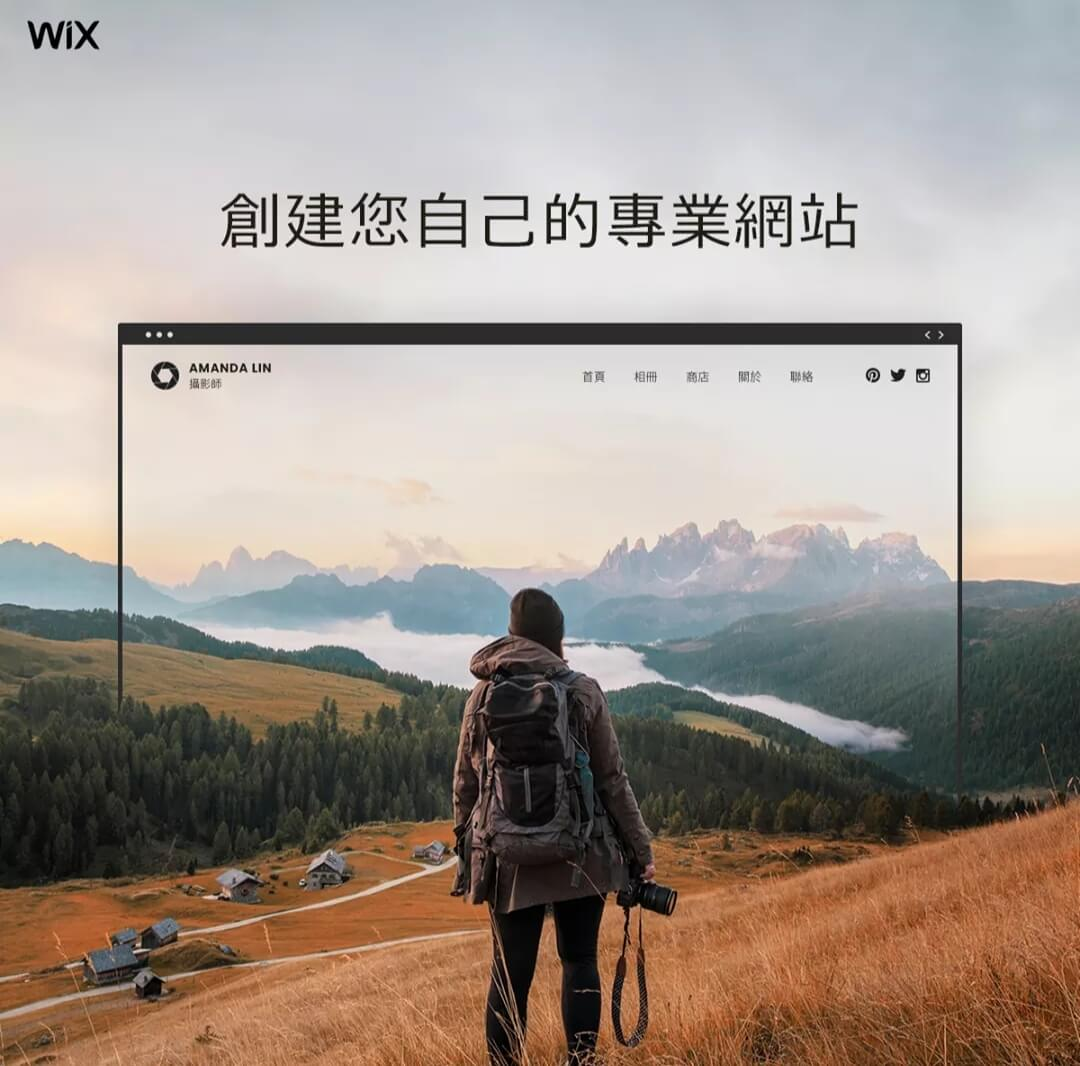
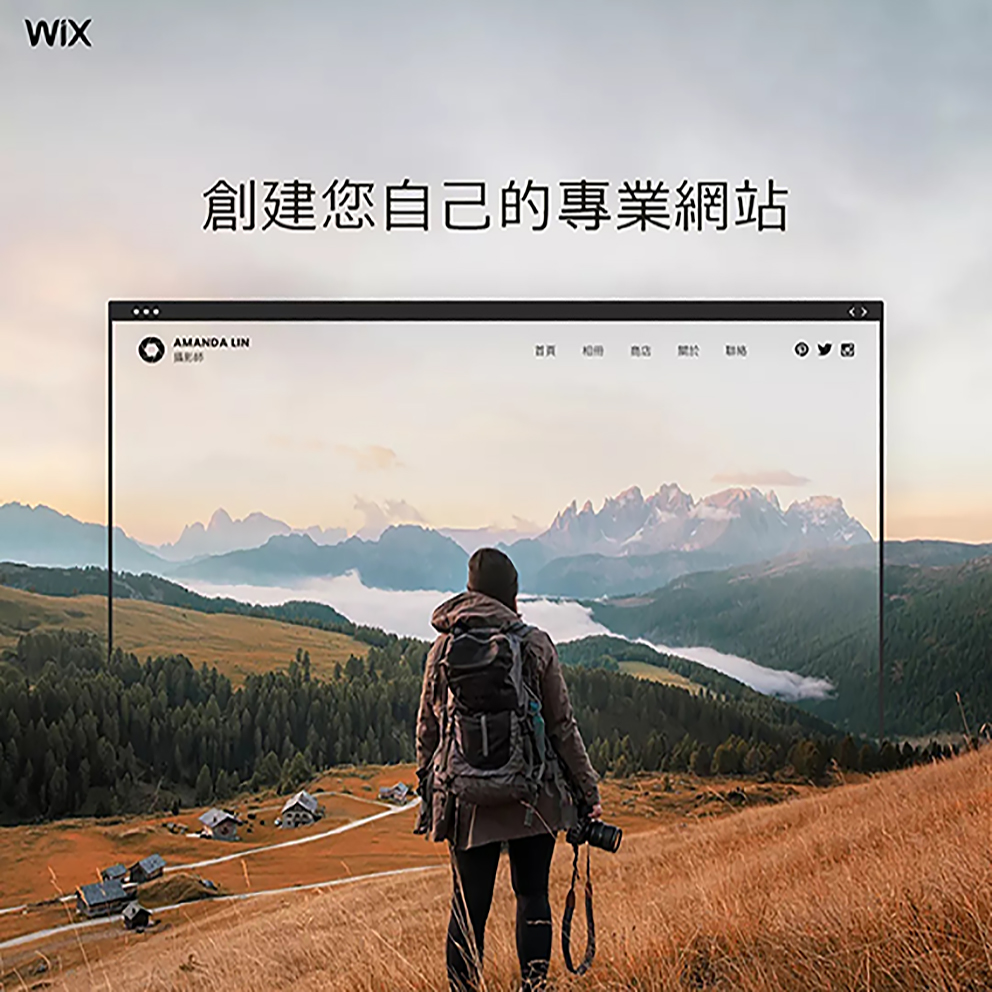
2022 0327 修正電腦版、平版、手機版圖片尺寸

diff --git a/index.html b/index.html
@@ -109,8 +109,6 @@
                     <img id="Bannerimg" src="images/banner/01.jpg" alt="">
                 </picture>
 
-                <!-- <div class="Btn LeftBtn">L</div>
-                <div class="Btn RightBtn">R</div> -->
                 <!-- <ul id="ImgBox">
                     <li class="Item01"></li>
                     <li class="Item02"></li>
